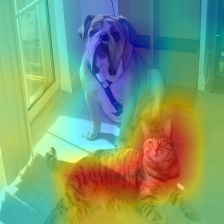
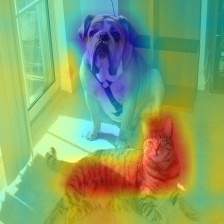
Test mode for no dropout

diff --git a/grad-cam.py b/grad-cam.py
@@ -24,7 +24,7 @@ class FeatureExtractor():
             if name in self.target_layers:
             	x.register_hook(self.save_gradient)
                 outputs += [x]
-        return outputs + [x]
+        return outputs, x
 
 class ModelOutputs():
 	""" Class for making a forward pass, and getting:
@@ -39,11 +39,10 @@ class ModelOutputs():
 		return self.feature_extractor.gradients
 
 	def __call__(self, x):
-		features = self.feature_extractor(x)
-		last_layer_output = features[-1]
-		last_layer_output = last_layer_output.view(last_layer_output.size(0), -1)
-		result = self.model.classifier(last_layer_output)
-		return features, result
+		target_activations, output  = self.feature_extractor(x)
+		output = output.view(output.size(0), -1)
+		output = self.model.classifier(output)
+		return target_activations, output
 
 def preprocess_image(img):
 	means=[0.485, 0.456, 0.406]
@@ -53,8 +52,9 @@ def preprocess_image(img):
 	for i in range(3):
 		preprocessed_img[:, :, i] = preprocessed_img[:, :, i] - means[i]
 		preprocessed_img[:, :, i] = preprocessed_img[:, :, i] / stds[i]
-	preprocessed_img = np.transpose(preprocessed_img, (2, 0, 1))
-	preprocessed_img = torch.from_numpy(np.ascontiguousarray(preprocessed_img))
+	preprocessed_img = \
+		np.ascontiguousarray(np.transpose(preprocessed_img, (2, 0, 1)))
+	preprocessed_img = torch.from_numpy(preprocessed_img)
 	preprocessed_img.unsqueeze_(0)
 	input = Variable(preprocessed_img, requires_grad = True)
 	return input
@@ -69,14 +69,14 @@ def show_cam_on_image(img, mask):
 class GradCam:
 	def __init__(self, model, target_layer_names):
 		self.model = model
+		self.model.eval()
+
 		self.extractor = ModelOutputs(self.model, target_layer_names)
 
 	def forward(self, input):
-		self.model.features.zero_grad()
 		return self.model(input) 
 
 	def __call__(self, input, index = None):
-		
 		features, output = self.extractor(input)
 		if index == None:
 			index = np.argmax(output.data.numpy())
@@ -87,7 +87,9 @@ class GradCam:
 		one_hot = torch.sum(one_hot * output)
 
 		self.model.features.zero_grad()
-		one_hot.backward()
+		self.model.classifier.zero_grad()
+		one_hot.backward(retain_variables=True)
+		
 		grads_val = self.extractor.get_gradients()[-1].data.numpy()
 
 		target = features[-1]
@@ -108,19 +110,18 @@ class GradCam:
 
 if __name__ == '__main__':
 	""" python grad_cam.py <path_to_image>
-		1. Loads an image with opencv.
-	    2. Preprocesses it for VGG19 and converts to a pytorch variable.
-	    3. Makes a forward pass to find the category index with the highest score,
-	       and computes intermediate activations.
-	       Makes the visualization. 
-		TBD: Add CUDA support, add guided backpropagation.
-	       """
+	1. Loads an image with opencv.
+    2. Preprocesses it for VGG19 and converts to a pytorch variable.
+    3. Makes a forward pass to find the category index with the highest score,
+       and computes intermediate activations.
+       Makes the visualization. 
+	TBD: Add CUDA support, add guided backpropagation. """
 
 	# Can work with any model, buy GradCAM assumes that model has a 
 	# feature method, and a classifier method,
 	# as like in the VGG models in torchvision.
 	grad_cam = GradCam(model = models.vgg19(pretrained=True), \
-					target_layer_names = ["36"])
+					target_layer_names = ["35"])
 
 	img = cv2.imread(sys.argv[1], 1)
 	img = np.float32(cv2.resize(img, (224, 224))) / 255
